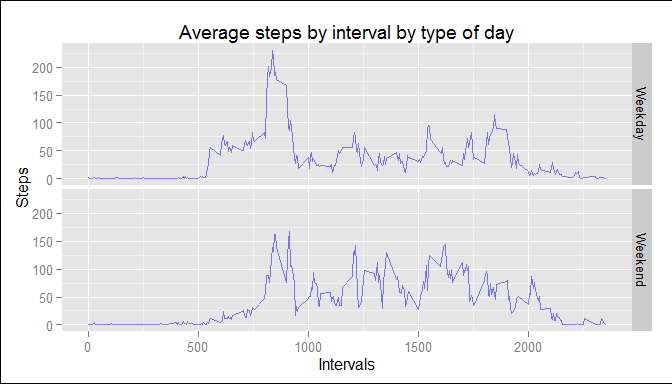
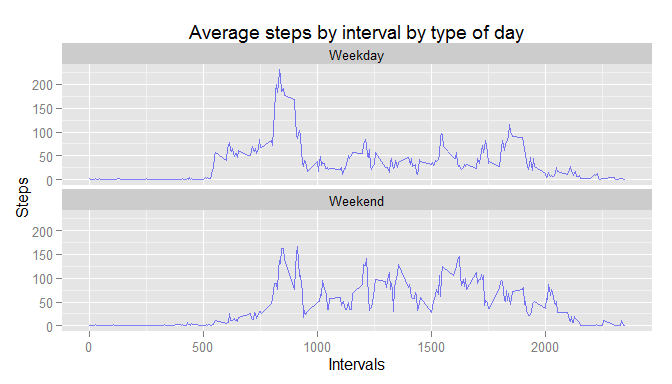
Final version. Font size changed.

Changed region(s): [[0.0, 0.0625, 0.9688, 0.9688], [0.0, 0.9688, 0.0312, 1.0], [0.0, 0.0, 0.0312, 0.0312]]

diff --git a/PA1_Template.html b/PA1_Template.html
@@ -61,32 +61,44 @@ img {
 
 
 
-<div id="coursera-reproducible-research" class="section level2">
-<h2>COURSERA: Reproducible Research</h2>
-<div id="peer-assesment-1-activity-monitoring-data" class="section level3">
-<h3>Peer Assesment #1 : Activity Monitoring Data</h3>
-<div id="by-deborah-waissman-nov2015" class="section level4">
-<h4>by Deborah Waissman Nov/2015</h4>
-<div id="this-project-will-make-use-of-data-from-a-personal-activity-monitoring-device.-this-device-collects-data-at-5-minute-intervals-through-out-the-day.-the-data-consists-of-two-months-of-data-from-an-anonymous-individual-collected-during-the-months-of-october-and-november-2012-and-include-the-number-of-steps-taken-in-5-minute-intervals-each-day." class="section level5">
-<h5>This project will make use of data from a personal activity monitoring device. This device collects data at 5 minute intervals through out the day. The data consists of two months of data from an anonymous individual collected during the months of October and November, 2012 and include the number of steps taken in 5 minute intervals each day.</h5>
+<div id="coursera-reproducible-research" class="section level3">
+<h3>COURSERA: Reproducible Research</h3>
+<div id="peer-assesment-1-activity-monitoring-data" class="section level4">
+<h4>Peer Assesment #1 : Activity Monitoring Data</h4>
+<div id="by-deborah-waissman-nov2015" class="section level6">
+<h6>by Deborah Waissman Nov/2015</h6>
 </div>
-<div id="set-up-general-options-and-load-necessary-libraries." class="section level5">
-<h5>1 Set up general options and load necessary libraries.</h5>
+<div id="this-project-will-make-use-of-data-from-a-personal-activity-monitoring-device.-this-device-collects-data-at-5-minute-intervals-through-out-the-day.-the-data-consists-of-two-months-of-data-from-an-anonymous-individual-collected-during-the-months-of-october-and-november-2012-and-include-the-number-of-steps-taken-in-5-minute-intervals-each-day." class="section level6">
+<h6>This project will make use of data from a personal activity monitoring device. This device collects data at 5 minute intervals through out the day. The data consists of two months of data from an anonymous individual collected during the months of October and November, 2012 and include the number of steps taken in 5 minute intervals each day.</h6>
+</div>
+<div id="set-up-general-options-and-load-necessary-libraries." class="section level6">
+<h6><strong>1 Set up general options and load necessary libraries.</strong></h6>
 <pre class="r"><code>library(&quot;knitr&quot;)
 opts_chunk$set(echo=TRUE, fig.height=4)
 library(ggplot2)</code></pre>
 </div>
-<div id="unzip-and-read-dataset-with-activity-montitoring.-original-data-sourceactivity-file" class="section level5">
-<h5>2 Unzip and read dataset with activity montitoring. Original data source:<a href="https://d396qusza40orc.cloudfront.net/repdata%2Fdata%2Factivity.zip">activity file</a></h5>
+<div id="unzip-and-read-dataset-with-activity-montitoring." class="section level6">
+<h6><strong>2 Unzip and read dataset with activity montitoring.</strong></h6>
+</div>
+<div id="original-data-source-activity-file.-the-dataset-is-stored-in-a-comma-separated-value-csv-file-and-there-are-a-total-of-17568-observations.-the-variables-included-in-this-dataset-are" class="section level6">
+<h6>Original data source: <a href="https://d396qusza40orc.cloudfront.net/repdata%2Fdata%2Factivity.zip">activity file</a>. The dataset is stored in a comma-separated-value (CSV) file and there are a total of 17,568 observations. The variables included in this dataset are:</h6>
+</div>
+<div id="steps-number-of-steps-taking-in-a-5-minute-interval-missing-values-are-coded-as-na" class="section level6">
+<h6><em>steps:</em> Number of steps taking in a 5-minute interval (missing values are coded as NA)</h6>
+</div>
+<div id="date-the-date-on-which-the-measurement-was-taken-in-yyyy-mm-dd-format" class="section level6">
+<h6><em>date:</em> The date on which the measurement was taken in YYYY-MM-DD format</h6>
+</div>
+<div id="interval-identifier-for-the-5-minute-interval-in-which-measurement-was-taken" class="section level6">
+<h6><em>interval:</em> Identifier for the 5-minute interval in which measurement was taken</h6>
 <pre class="r"><code>activityfile&lt;-unzip(&quot;activity.zip&quot;)
 activity&lt;- read.csv(activityfile, colClasses =c(&quot;numeric&quot;,&quot;character&quot;,&quot;numeric&quot;))</code></pre>
 <hr />
 </div>
-</div>
-<div id="what-is-mean-total-number-of-steps-taken-per-day" class="section level4">
-<h4>What is mean total number of steps taken per day?</h4>
-<div id="calculate-and-plot-total-report-on-mean-and-median-number-of-steps-taken-by-day." class="section level5">
-<h5>3 Calculate and plot total, report on mean and median number of steps taken by day.</h5>
+<div id="what-is-mean-total-number-of-steps-taken-per-day" class="section level5">
+<h5>What is mean total number of steps taken per day?</h5>
+<div id="calculate-and-plot-total-report-on-mean-and-median-number-of-steps-taken-by-day." class="section level6">
+<h6><strong>3 Calculate and plot total, report on mean and median number of steps taken by day.</strong></h6>
 <pre class="r"><code>df &lt;- aggregate(activity$steps, by=list(activity$date), FUN=sum) 
 ggplot( data=df, aes(x)) +   
         geom_histogram(col=&quot;black&quot;, fill=&quot;blue&quot;, alpha = .2, binwidth= 500) +
@@ -97,10 +109,10 @@ ggplot( data=df, aes(x)) +
 <hr />
 </div>
 </div>
-<div id="what-is-the-average-daily-activity-pattern" class="section level4">
-<h4>What is the average daily activity pattern?</h4>
-<div id="calculate-and-plot-average-steps-by-interval-across-all-days-report-on-max-interval." class="section level5">
-<h5>4 Calculate and plot average steps by interval across all days, report on max interval.</h5>
+<div id="what-is-the-average-daily-activity-pattern" class="section level5">
+<h5>What is the average daily activity pattern?</h5>
+<div id="calculate-and-plot-average-steps-by-interval-across-all-days-report-on-max-interval." class="section level6">
+<h6><strong>4 Calculate and plot average steps by interval across all days, report on max interval.</strong></h6>
 <pre class="r"><code>df &lt;- aggregate(activity$steps, by=list(activity$interval), FUN=mean, na.rm=T) 
 ggplot( data=df, aes(x= Group.1, y=x)) +   
         geom_line(colour=&quot;blue&quot;, alpha = .5) +
@@ -111,10 +123,10 @@ ggplot( data=df, aes(x= Group.1, y=x)) +
 <hr />
 </div>
 </div>
-<div id="imputing-missing-values" class="section level4">
-<h4>Imputing missing values</h4>
-<div id="calculate-total-number-of-na.-substitute-na-with-avg-of-interval-taken-from-previous-data-frame." class="section level5">
-<h5>5 Calculate total number of NA. Substitute NA with avg of interval taken from previous data frame.</h5>
+<div id="imputing-missing-values" class="section level5">
+<h5>Imputing missing values</h5>
+<div id="calculate-total-number-of-na.-imputing-strategy-substitute-nas-with-mean-for-interval-across-all-days." class="section level6">
+<h6><strong>5 Calculate total number of NA. Imputing strategy: Substitute NAs with mean for interval across all days.</strong></h6>
 <pre class="r"><code>nacount&lt;- sum(is.na(activity$steps))
 xx &lt;- (merge(df, activity, by.x = &quot;Group.1&quot;, by.y=&quot;interval&quot;))
 xx$steps[is.na(xx$steps)] &lt;- (xx$x[is.na(xx$steps)])
@@ -126,14 +138,14 @@ ggplot( data=dfi, aes(x)) +
         labs(x=&quot;Steps&quot;, y=&quot;Frequency&quot;)</code></pre>
[1 lines of base64/hex data omitted]
 <p><strong>The total number of NA values before imputing was: 2,304</strong><br /><strong>The mean of total steps taken by day is: 10,766</strong><br /><strong>The median of total steps taken by day is: 10,766</strong></p>
-<p><strong>Histogram imputing missing values looks similar to the histogram with NA values, however frequency scale is different.</strong><br /><strong>Imputing missing values made no impact on mean/median due to equal number of occurrences.</strong></p>
+<p><strong>Histogram imputing missing values looks similar to the histogram with NA values, however frequency scale is different.</strong><br /><strong>Imputing missing values made no impact on mean/median due to equal number of observations.</strong></p>
 <hr />
 </div>
 </div>
-<div id="are-there-differences-in-activity-patterns-between-weekdays-and-weekends" class="section level4">
-<h4>Are there differences in activity patterns between weekdays and weekends?</h4>
-<div id="assign-type-of-day-calculate-avg-steps-by-interval-by-type" class="section level5">
-<h5>6 Assign type of day, calculate avg steps by interval by type</h5>
+<div id="are-there-differences-in-activity-patterns-between-weekdays-and-weekends" class="section level5">
+<h5>Are there differences in activity patterns between weekdays and weekends?</h5>
+<div id="assign-type-of-day-calculate-avg-steps-by-interval-by-type" class="section level6">
+<h6><strong>6 Assign type of day, calculate avg steps by interval by type</strong></h6>
 <pre class="r"><code>xx$id &lt;- weekdays(as.Date(xx$date,&quot;%Y-%m-%d&quot;), abbreviate=T)
 xx$type &lt;- factor(xx$id)
 levels(xx$type) &lt;- list(
@@ -142,11 +154,10 @@ levels(xx$type) &lt;- list(
 
 df &lt;- aggregate(xx$steps, by=list(xx$Group.1,xx$type), FUN=mean) 
 ggplot( df, aes(x= Group.1, y=x))+
-        geom_line(colour=&quot;blue&quot;, alpha = .5)+facet_grid(Group.2 ~ . ) +
+        geom_line(colour=&quot;blue&quot;, alpha = .5)+facet_wrap(~ Group.2, ncol=1) +
         labs(title=&quot;Average steps by interval by type of day&quot;) +
-        labs(x=&quot;Intervals&quot;, y=&quot;Steps&quot;) +        
-        theme(plot.background = element_rect(fill = &quot;white&quot;, colour=&quot;black&quot;))</code></pre>
[1 lines of base64/hex data omitted]
+        labs(x=&quot;Intervals&quot;, y=&quot;Steps&quot;) </code></pre>
[1 lines of base64/hex data omitted]
 <p><strong>Activity during weekends is more uniform throught the day. On weekdays we can observe a peak on interval 900. Therefore we can deduct that the period of most activity for the subject is about mid-morning during weekdays.</strong></p>
 </div>
 </div>

diff --git a/PA1_Template.md b/PA1_Template.md
@@ -1,11 +1,11 @@
-## COURSERA: Reproducible Research
-### Peer Assesment #1 : Activity Monitoring Data
-#### by Deborah Waissman Nov/2015  
+### COURSERA: Reproducible Research
+#### Peer Assesment #1 : Activity Monitoring Data
+###### by Deborah Waissman Nov/2015  
 
-##### This project will make use of data from a personal activity monitoring device. This device collects data at 5 minute intervals through out the day. The data consists of two months of data from an anonymous individual collected during the months of October and November, 2012 and include the number of steps taken in 5 minute intervals each day.    
+###### This project will make use of data from a personal activity monitoring device. This device collects data at 5 minute intervals through out the day. The data consists of two months of data from an anonymous individual collected during the months of October and November, 2012 and include the number of steps taken in 5 minute intervals each day.    
 
     
-#####1 Set up general options and load necessary libraries.  
+######__1 Set up general options and load necessary libraries.__    
 
 ```r
 library("knitr")
@@ -13,7 +13,11 @@ opts_chunk$set(echo=TRUE, fig.height=4)
 library(ggplot2)
 ```
 
-#####2 Unzip and read dataset with activity montitoring. Original data source:[activity file](https://d396qusza40orc.cloudfront.net/repdata%2Fdata%2Factivity.zip)
+######__2 Unzip and read dataset with activity montitoring.__  
+######Original data source: [activity file](https://d396qusza40orc.cloudfront.net/repdata%2Fdata%2Factivity.zip). The dataset is stored in a comma-separated-value (CSV) file and there are a total of 17,568 observations. The variables included in this dataset are:  
+######_steps:_ Number of steps taking in a 5-minute interval (missing values are coded as NA)  
+######_date:_ The date on which the measurement was taken in YYYY-MM-DD format  
+######_interval:_ Identifier for the 5-minute interval in which measurement was taken    
 
 ```r
 activityfile<-unzip("activity.zip")
@@ -22,8 +26,8 @@ activity<- read.csv(activityfile, colClasses =c("numeric","character","numeric")
 
 ----------------------------------------------------------------------------------------------------------------------------------------------------------------------------------------------------------  
 
-####What is mean total number of steps taken per day?
-#####3 Calculate and plot total, report on mean and median number of steps taken by day.
+#####What is mean total number of steps taken per day?
+######__3 Calculate and plot total, report on mean and median number of steps taken by day.__  
 
 ```r
 df <- aggregate(activity$steps, by=list(activity$date), FUN=sum) 
@@ -33,15 +37,15 @@ ggplot( data=df, aes(x)) +
         labs(x="Steps", y="Frequency")
 ```
 
-![](PA1_Template_files/figure-html/totalstepsbyday-1.png) 
+![](PA1_template_files/figure-html/totalstepsbyday-1.png) 
 
 **The mean of total steps taken by day is: 10,766**  
 **The median of total steps taken by day is: 10,765**  
 
 ----------------------------------------------------------------------------------------------------------------------------------------------------------------------------------------------------------  
 
-####What is the average daily activity pattern?
-#####4 Calculate and plot average steps by interval across all days, report on max interval.
+#####What is the average daily activity pattern?
+######__4 Calculate and plot average steps by interval across all days, report on max interval.__  
 
 ```r
 df <- aggregate(activity$steps, by=list(activity$interval), FUN=mean, na.rm=T) 
@@ -51,14 +55,14 @@ ggplot( data=df, aes(x= Group.1, y=x)) +
         labs(x="Intervals", y="Steps")
 ```
 
-![](PA1_Template_files/figure-html/avgstepsbyint-1.png) 
+![](PA1_template_files/figure-html/avgstepsbyint-1.png) 
 
 **The 5 min interval with maximum number of steps is: 835**  
 
 ----------------------------------------------------------------------------------------------------------------------------------------------------------------------------------------------------------  
 
-####Imputing missing values
-#####5 Calculate total number of NA. Substitute NA with avg of interval taken from previous data frame.
+#####Imputing missing values
+######__5 Calculate total number of NA. Imputing strategy: Substitute NAs with mean for interval across all days.__  
 
 ```r
 nacount<- sum(is.na(activity$steps))
@@ -72,19 +76,19 @@ ggplot( data=dfi, aes(x)) +
         labs(x="Steps", y="Frequency")
 ```
 
-![](PA1_Template_files/figure-html/imputna-1.png) 
+![](PA1_template_files/figure-html/imputna-1.png) 
 
 **The total number of NA values before imputing was: 2,304**  
 **The mean of total steps taken by day is: 10,766**  
 **The median of total steps taken by day is: 10,766**  
 
 **Histogram imputing missing values looks similar to the histogram with NA values, however frequency scale is different.**  
-**Imputing missing values made no impact on mean/median due to equal number of occurrences.**  
+**Imputing missing values made no impact on mean/median due to equal number of observations.**  
 
 ----------------------------------------------------------------------------------------------------------------------------------------------------------------------------------------------------------    
 
-####Are there differences in activity patterns between weekdays and weekends?
-#####6 Assign type of day, calculate avg steps by interval by type
+#####Are there differences in activity patterns between weekdays and weekends?
+######__6 Assign type of day, calculate avg steps by interval by type__  
 
 ```r
 xx$id <- weekdays(as.Date(xx$date,"%Y-%m-%d"), abbreviate=T)
@@ -95,12 +99,11 @@ levels(xx$type) <- list(
 
 df <- aggregate(xx$steps, by=list(xx$Group.1,xx$type), FUN=mean) 
 ggplot( df, aes(x= Group.1, y=x))+
-        geom_line(colour="blue", alpha = .5)+facet_grid(Group.2 ~ . ) +
+        geom_line(colour="blue", alpha = .5)+facet_wrap(~ Group.2, ncol=1) +
         labs(title="Average steps by interval by type of day") +
-        labs(x="Intervals", y="Steps") +        
-        theme(plot.background = element_rect(fill = "white", colour="black"))
+        labs(x="Intervals", y="Steps") 
 ```
 
-![](PA1_Template_files/figure-html/typeofday-1.png) 
+![](PA1_template_files/figure-html/typeofday-1.png) 
 
 **Activity during weekends is more uniform throught the day. On weekdays we can observe a peak on interval 900. Therefore we can deduct that the period of most activity for the subject is about mid-morning during weekdays.**  
